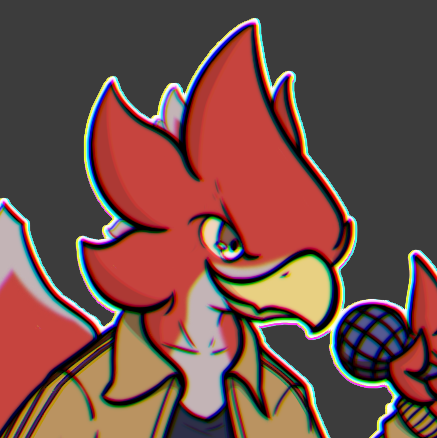
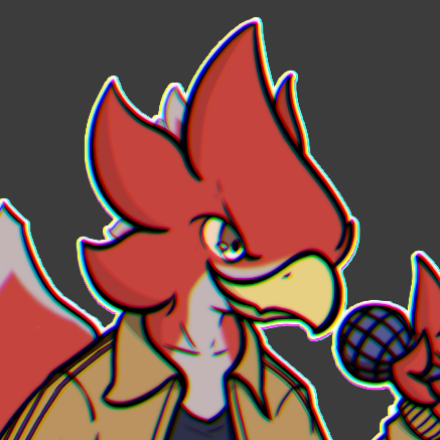
feat: apply resolution switching on images in main

diff --git a/client/src/app/modules/main/sections/coding-section/projects-section/projects-section.component.html b/client/src/app/modules/main/sections/coding-section/projects-section/projects-section.component.html
@@ -35,7 +35,8 @@
         <div class="slide">
           <app-project-showcase
             [isLightImage]="true"
-            imagePath="assets/images/projects/perchpals.png"
+            imagePathSmall="assets/images/projects/perchpals/perchpals-1x.png"
+            imagePathLarge="assets/images/projects/perchpals/perchpals-2x.png"
             title="Perchpals Platform"
             [languageNameArr]="[
               'typescript',
@@ -56,7 +57,8 @@
         <div class="slide">
           <app-project-showcase
             [isLightImage]="false"
-            imagePath="assets/images/projects/pigeonpoopcafe.png"
+            imagePathSmall="assets/images/projects/pigeonpoopcafe/pigeonpoopcafe-1x.png"
+            imagePathLarge="assets/images/projects/pigeonpoopcafe/pigeonpoopcafe-2x.png"
             title="Personal Website"
             [languageNameArr]="['typescript', 'angular', 'golang', 'scss']"
             link="https://github.com/demeritbird/pigeonpoopcafe-Website"
@@ -69,7 +71,8 @@
         <div class="slide">
           <app-project-showcase
             [isLightImage]="true"
-            imagePath="assets/images/projects/markers-on-maps.png"
+            imagePathSmall="assets/images/projects/markers-on-maps/markers-on-maps-1x.png"
+            imagePathLarge="assets/images/projects/markers-on-maps/markers-on-maps-2x.png"
             title="Markers On Maps"
             [languageNameArr]="['typescript', 'angular']"
             link="https://github.com/demeritbird/Markers-On-Maps--Sample"
@@ -81,7 +84,8 @@
         <div class="slide">
           <app-project-showcase
             [isLightImage]="true"
-            imagePath="assets/images/projects/eventle.png"
+            imagePathSmall="assets/images/projects/eventle/eventle-1x.png"
+            imagePathLarge="assets/images/projects/eventle/eventle-2x.png"
             title="Eventle Platform"
             [languageNameArr]="['java']"
             link="https://github.com/demeritbird/Eventle-Android"

diff --git a/client/src/app/modules/main/sections/artworks-section/artworks-section.component.html b/client/src/app/modules/main/sections/artworks-section/artworks-section.component.html
@@ -12,19 +12,23 @@
 
   <div class="artworks__showcase">
     <app-artwork-container
-      imageName="artworks/ndp-boy.png"
+      imagePathSmall="assets/images/artworks/ndp-boy/ndp-boy-1x.png"
+      imagePathLarge="assets/images/artworks/ndp-boy/ndp-boy-2x.png"
       caption="comics"
     ></app-artwork-container>
     <app-artwork-container
-      imageName="artworks/kled.png"
+      imagePathSmall="assets/images/artworks/kled/kled-1x.png"
+      imagePathLarge="assets/images/artworks/kled/kled-2x.png"
       caption="line art"
     ></app-artwork-container>
     <app-artwork-container
-      imageName="artworks/yunona.png"
+      imagePathSmall="assets/images/artworks/yunona/yunona-1x.png"
+      imagePathLarge="assets/images/artworks/yunona/yunona-2x.png"
       caption="illustrations"
     ></app-artwork-container>
     <app-artwork-container
-      imageName="artworks/dembird-concept.png"
+      imagePathSmall="assets/images/artworks/dembird-concept/dembird-concept-1x.png"
+      imagePathLarge="assets/images/artworks/dembird-concept/dembird-concept-2x.png"
       caption="concept art"
     ></app-artwork-container>
   </div>

diff --git a/client/src/app/modules/main/sections/footer-section/footer-section.component.scss b/client/src/app/modules/main/sections/footer-section/footer-section.component.scss
@@ -23,9 +23,16 @@
 
     opacity: 0.2;
     background-color: $color-black;
-    background-image: url(../../../../../assets/images/green-fern-background-bottom-5x.png);
+    background-image: url(../../../../../assets/images/green-fern/green-fern-background-top-5x.png);
     background-repeat: no-repeat;
     background-size: cover;
+
+    @include respond(ipad-land) {
+      background-image: url(../../../../../assets/images/green-fern/green-fern-background-top-2x.png);
+    }
+    @include respond(phone) {
+      background-image: url(../../../../../assets/images/green-fern/green-fern-background-top-1x.png);
+    }
   }
 }
 

diff --git a/client/src/app/modules/main/sections/coding-section/coding-section.component.scss b/client/src/app/modules/main/sections/coding-section/coding-section.component.scss
@@ -34,9 +34,16 @@
 
     opacity: 0.2;
     background-color: $color-black;
-    background-image: url(../../../../../assets/images/green-fern-background-top-5x.png);
+    background-image: url(../../../../../assets/images/green-fern/green-fern-background-top-5x.png);
     background-repeat: no-repeat;
     background-size: cover;
+
+    @include respond(ipad-land) {
+      background-image: url(../../../../../assets/images/green-fern/green-fern-background-top-2x.png);
+    }
+    @include respond(phone) {
+      background-image: url(../../../../../assets/images/green-fern/green-fern-background-top-1x.png);
+    }
   }
 }
 

diff --git a/client/src/app/modules/main/sections/hero-section/hero-section.component.scss b/client/src/app/modules/main/sections/hero-section/hero-section.component.scss
@@ -33,9 +33,16 @@
 
     opacity: 0.2;
     background-color: $color-black;
-    background-image: url(../../../../../assets/images/green-fern-background-top-5x.png);
+    background-image: url(../../../../../assets/images/green-fern/green-fern-background-top-5x.png);
     background-repeat: no-repeat;
     background-size: cover;
+
+    @include respond(ipad-land) {
+      background-image: url(../../../../../assets/images/green-fern/green-fern-background-top-2x.png);
+    }
+    @include respond(phone) {
+      background-image: url(../../../../../assets/images/green-fern/green-fern-background-top-1x.png);
+    }
   }
 }
 

diff --git a/client/src/app/modules/main/sections/about-section/about-section.component.html b/client/src/app/modules/main/sections/about-section/about-section.component.html
@@ -13,7 +13,12 @@
     <div class="about__body-image-container">
       <img
         class="about__body-image"
-        src="assets/images/about-image.png"
+        srcset="
+          assets/images/about-image/about-image-1x.png 353w,
+          assets/images/about-image/about-image-2x.png 705w
+        "
+        sizes="(max-width: 68em) 315px, (max-width: 37.5em) 201.6px, 350px"
+        src="assets/images/about-image-2x.png"
         alt="image of author"
       />
     </div>

diff --git a/client/src/app/modules/main/components/artwork-container/artwork-container.component.html b/client/src/app/modules/main/components/artwork-container/artwork-container.component.html
@@ -1,7 +1,9 @@
 <div class="container u-margin-bottom--medium" routerLink="./restricted">
   <img
     class="artwork__image"
-    [src]="'assets/images/' + imageName"
+    [srcset]="imagePathSmall + ' 884w,' + imagePathLarge + ' 1767w'"
+    sizes="(max-width: 68em) 530px, (max-width: 37.5em) 294.4px, 920px"
+    [src]="'assets/images/projects/' + imagePathLarge"
     alt="picture of image cluster drawn by demeritbird"
   />
   <div class="artwork__textbox">

diff --git a/client/src/app/modules/main/components/project-showcase/project-showcase.component.ts b/client/src/app/modules/main/components/project-showcase/project-showcase.component.ts
@@ -7,7 +7,8 @@ import { LanguagesColorKey } from '../language-tag/language-tag.component';
   styleUrls: ['./project-showcase.component.scss'],
 })
 export class ProjectShowcaseComponent {
-  @Input() imagePath: string = '';
+  @Input() imagePathSmall: string = '';
+  @Input() imagePathLarge: string = '';
   @Input() title: string = '';
   @Input() languageNameArr: LanguagesColorKey[] = [
     'typescript',

diff --git a/client/src/app/modules/main/components/project-showcase/project-showcase.component.html b/client/src/app/modules/main/components/project-showcase/project-showcase.component.html
@@ -3,7 +3,9 @@
     <div class="cover__image-holder u-margin-bottom--tiny">
       <img
         class="cover__image"
-        [src]="imagePath"
+        [srcset]="imagePathSmall + ' 388w,' + imagePathLarge + ' 775w'"
+        sizes="(max-width: 68em) 392px, (max-width: 37.5em) 294.4px, 680px"
+        [src]="imagePathLarge"
         alt="cover image of project"
       />
     </div>

diff --git a/client/src/app/modules/main/components/artwork-container/artwork-container.component.ts b/client/src/app/modules/main/components/artwork-container/artwork-container.component.ts
@@ -7,5 +7,6 @@ import { Component, Input } from '@angular/core';
 })
 export class ArtworkContainerComponent {
   @Input() caption: string = '';
-  @Input() imageName: string = '';
+  @Input() imagePathSmall: string = '';
+  @Input() imagePathLarge: string = '';
 }

diff --git a/client/src/app/modules/main/base-layout/base-layout.component.scss b/client/src/app/modules/main/base-layout/base-layout.component.scss
@@ -23,6 +23,7 @@
   &__main {
     height: 100%;
     width: 120rem;
+    max-width: 100%;
 
     margin: 0 auto;
   }
